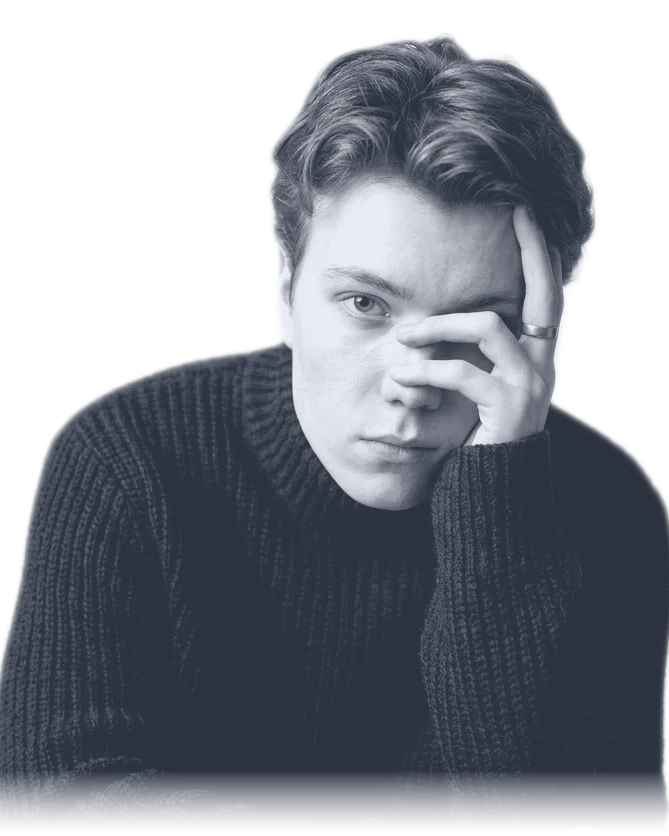
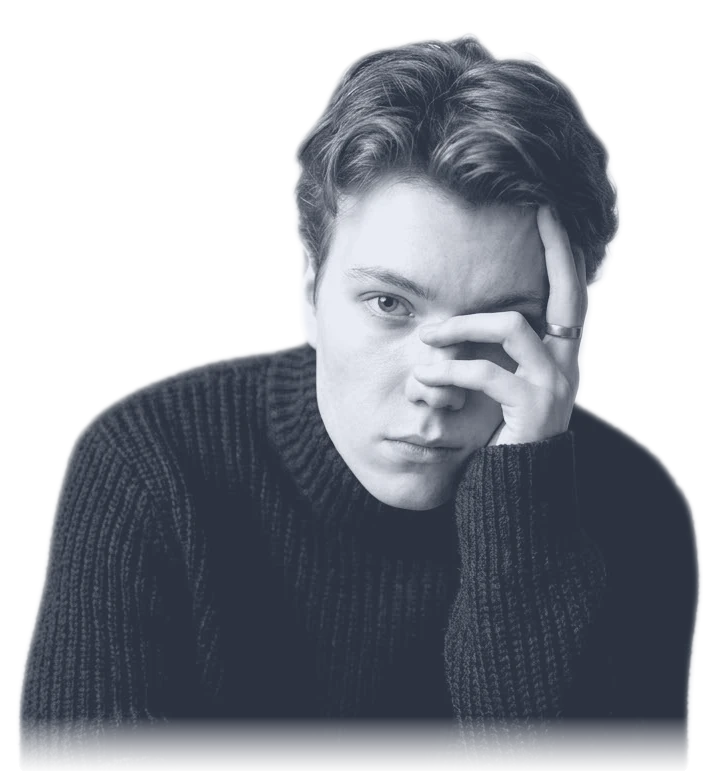
Бейдж круглый, фольга холодная, прозрачность без потерь
Щиток заменён круглым медальоном, форма теперь на border-radius —
контур в clipPath больше не нужен. Фигура вписана целиком: размер
подобран так, чтобы плечи, самое широкое место силуэта, не доставали
до окружности.

Фольга перекрашена в индиго, фиалку и лазурь и получила построчную
штриховку — радуга спорила с палитрой страницы и выглядела игрушечной.
Полосы стали чаще.

Прозрачность портрета жмётся без потерь, а цвет по-прежнему с
потерями. Лоссовая альфа шумила по всему кадру, и на светлой фольге
проступал прямоугольник картинки — на скриншоте владельца он был
хорошо виден.

diff --git a/assets/css/style.css b/assets/css/style.css
@@ -327,14 +327,14 @@ a:hover { color: var(--text); }
 
 .hero__grid {
   display: grid;
-  grid-template-columns: minmax(0, 1fr) 20rem;
+  grid-template-columns: minmax(0, 1fr) 22rem;
   gap: clamp(1.5rem, 4vw, 3.5rem);
   align-items: start;
 }
 
-/* Бейдж прижат к низу строки: так он заканчивается вровень с кнопками, а не
-   висит над пустотой. */
-.hero__grid .badge { align-self: end; }
+/* Круглый бейдж выравнивается по середине строки: прижатый к низу, он
+   оставлял дыру над собой. */
+.hero__grid .badge { align-self: center; }
 
 @media (max-width: 920px) {
   .hero__grid { grid-template-columns: minmax(0, 1fr); }
@@ -431,14 +431,11 @@ a:hover { color: var(--text); }
   background: radial-gradient(52% 52% at 52% 46%, rgba(124, 124, 255, 0.22), transparent 70%);
 }
 
-/* Кант вырубки — три вложенные коробки с одним контуром: тёмный ободок,
-   светлый ободок, содержимое. Рамкой его не сделать, clip-path режет и её. */
-.badge__die,
-.badge__ring,
-.badge__inner { clip-path: url(#badge-shield); }
-
+/* Круглый медальон: тёмный ободок снаружи, светлый кант, содержимое внутри. */
 .badge__die {
-  aspect-ratio: 4 / 5;
+  aspect-ratio: 1;
+  border-radius: 50%;
+  border: 3px solid #05070c;
   padding: 3px;
   background: #05070c;
   filter: drop-shadow(0 18px 30px rgba(0, 0, 0, 0.7));
@@ -452,12 +449,15 @@ a:hover { color: var(--text); }
 .badge__ring {
   height: 100%;
   padding: 3px;
+  border-radius: 50%;
   background: linear-gradient(150deg, #f2f5ff, var(--edge) 45%, #8d95ad);
 }
 
 .badge__inner {
   position: relative;
   height: 100%;
+  border-radius: 50%;
+  overflow: hidden;
 }
 
 /* Пока курсор на бейдже, наклон должен успевать за ним; отпустили — плавный
@@ -492,15 +492,16 @@ a:hover { color: var(--text); }
 
 .badge.is-live .badge__foil { opacity: 0.92; }
 
-/* Фигура вписывается целиком с полями: object-fit: cover срезал плечи, а
-   наклейка с обрезанным по краям человеком выглядит браком печати. */
+/* Фигура целиком внутри круга. Размер подобран так, чтобы плечи — самое
+   широкое место силуэта — не доставали до окружности: на высоте низа
+   фотографии круг ещё шире её самой. */
 .badge__photo {
   position: absolute;
-  inset: 4% 6% 6%;
-  width: 88%;
-  height: 90%;
-  object-fit: contain;
-  object-position: 50% 0;
+  inset-block-start: 10%;
+  inset-inline-start: 50%;
+  transform: translateX(-50%);
+  height: 72%;
+  width: auto;
 }
 
 /* Блик — белое пятно под самым курсором, как отсвет на плёнке. */

diff --git a/index.html b/index.html
@@ -24,25 +24,6 @@
   <a class="skip" href="#main">К содержанию</a>
 
   <canvas id="field" aria-hidden="true"></canvas>
-
-  <!-- Контур вырубки бейджа. Щиток со скруглёнными углами и мягким сходом
-       книзу: polygon() такие кривые не умеет, поэтому форма задана путём.
-       Координаты доли от габарита, поэтому форма тянется за размером. -->
-  <svg width="0" height="0" aria-hidden="true" focusable="false" style="position:absolute">
-    <defs>
-      <clipPath id="badge-shield" clipPathUnits="objectBoundingBox">
-        <path d="M 0.09 0
-                 L 0.91 0
-                 C 0.96 0 1 0.04 1 0.09
-                 L 1 0.46
-                 C 1 0.71 0.84 0.89 0.5 1
-                 C 0.16 0.89 0 0.71 0 0.46
-                 L 0 0.09
-                 C 0 0.04 0.04 0 0.09 0
-                 Z" />
-      </clipPath>
-    </defs>
-  </svg>
   <div id="app"></div>
 
   <noscript>

diff --git a/tools/prep_portrait.py b/tools/prep_portrait.py
@@ -32,8 +32,8 @@ OUT = ROOT / "assets" / "img" / "portrait.webp"
 MODEL = Path.home() / ".u2net" / "u2net_human_seg.onnx"
 
 TARGET_W = 760          # ширина итогового файла, px (показывается вдвое меньше)
-ASPECT = 0.8            # ширина к высоте: портретный кадр 4:5
-HEAD_RATIO = 2.2        # высота кадра в высотах головы
+ASPECT = 0.92           # ширина к высоте: кадр почти квадратный — под круг
+HEAD_RATIO = 2.05       # высота кадра в высотах головы
 SHADOW = (0x1b, 0x22, 0x30)   # куда уходят тени — синевато-тёмный из палитры
 HIGHLIGHT = (0xe9, 0xec, 0xf4)  # куда уходят света
 # Растворяется только низ, и совсем немного: там силуэт обрезан краем кадра.
@@ -161,10 +161,19 @@ def main() -> int:
         rows = max(1, int(height * TOP_FADE))
         mask[:rows, :] *= (np.linspace(0.0, 1.0, rows) ** 1.4)[:, None]
 
-    rgba = np.dstack([duotone(gray), (mask * 255).astype(np.uint8)])
+    alpha = (mask * 255).astype(np.uint8)
+    # Почти прозрачное дожимаем до нуля: лоссовое сжатие размазывает такую
+    # альфу, и на светлом фоне проступает прямоугольник картинки.
+    alpha[alpha < 8] = 0
+
+    rgba = np.dstack([duotone(gray), alpha])
 
     OUT.parent.mkdir(parents=True, exist_ok=True)
-    Image.fromarray(rgba, mode="RGBA").save(OUT, "WEBP", quality=88, method=6)
+    # Цвет жмём с потерями, прозрачность — нет. Иначе на светлом фоне
+    # проступает прямоугольник картинки: лоссовая альфа шумит по всему кадру.
+    Image.fromarray(rgba, mode="RGBA").save(
+        OUT, "WEBP", quality=90, alpha_quality=100, method=6,
+    )
 
     sys.stdout.reconfigure(encoding="utf-8")
     print(f"{OUT.relative_to(ROOT)} - {target_w}x{height}, {OUT.stat().st_size / 1024:.0f} KB")

diff --git a/tools/make_foil.py b/tools/make_foil.py
@@ -28,19 +28,21 @@ OUT = ROOT / "assets" / "img" / "foil.webp"
 
 WIDTH = 560
 HEIGHT = 700
-BANDS = 7.0             # сколько цветных полос укладывается по диагонали
-WARP = 2.6              # насколько сильно шум коробит полосы
+BANDS = 9.5             # сколько цветных полос укладывается по диагонали
+WARP = 2.2              # насколько сильно шум коробит полосы
+SCANLINE = 0.16         # глубина построчной штриховки
 SEED = 11
 
-# Радужная шкала фольги: пурпур, фиалка, синь, бирюза, мята, золото и обратно.
+# Холодная шкала: индиго, фиалка, электрик, лазурь, стальной — и обратно.
+# Радуга спорила с палитрой страницы и выглядела игрушечной.
 RAMP = [
-    (255, 0, 140),
-    (150, 60, 255),
-    (60, 140, 255),
-    (0, 225, 220),
-    (90, 255, 150),
-    (255, 220, 90),
-    (255, 0, 140),
+    (58, 42, 190),
+    (124, 70, 255),
+    (58, 110, 255),
+    (34, 200, 245),
+    (150, 190, 255),
+    (92, 60, 220),
+    (58, 42, 190),
 ]
 
 
@@ -83,7 +85,11 @@ def main() -> int:
     # Блик на сгибе — узкая полоска в середине полосы, и она белая, а не
     # цветная: у металла отсвет всегда уходит в белый.
     highlight = np.exp(-((fraction - 0.5) ** 2) / (2 * 0.05 ** 2))
-    out = colour * (0.5 + 0.35 * highlight)[..., None] + 235.0 * highlight[..., None]
+    out = colour * (0.52 + 0.32 * highlight)[..., None] + 225.0 * highlight[..., None]
+
+    # Построчная штриховка: тонкая техническая развёртка поверх металла.
+    scan = 1.0 - SCANLINE * (np.mod(rows, 3.0) < 1.0)
+    out *= scan[..., None]
 
     out = np.clip(out, 0, 255).astype(np.uint8)
 

diff --git a/README.md b/README.md
@@ -15,12 +15,12 @@
   сегодняшнего: видно и соотношение сроков, и промежутки между работами. Клик по
   отрезку прокручивает к нужной карточке.
 * **Голографический бейдж вместо фотографии.** Фигура вырезана нейросетью и
-  лежит на фольге, вырубленной по щитку со скруглёнными углами. Под курсором
+  лежит на фольге внутри круглого медальона. Под курсором
   наклейка наклоняется, фольга переливается, а по плёнке ходит блик — как
   наклейки в игровых инвентарях. Текстура фольги не из градиентов, а
   сгенерирована: `tools/make_foil.py` считает мятые складки с бликами на
-  изломах, дальше она просто ездит фоном. Кант вырубки — три вложенные коробки
-  с одним контуром; рамкой его не сделать, `clip-path` режет и её.
+  изломах, дальше она просто ездит фоном. Гамма холодная, сине-фиолетовая:
+  радуга спорила с палитрой страницы.
 * **Поле символов вместо фона.** Всю страницу подстилает сетка моноширинных
   знаков — синтаксис кода вперемешку с юридическими символами (`{ } < > § № ¶`).
   Сама по себе она едва различима; курсор освещает вокруг себя круг, где символы
@@ -126,8 +126,12 @@ python tools/make_foil.py
 об этом скажет и ничего не сделает.
 
 Второй скрипт рисует `assets/img/foil.webp` — текстуру голографической фольги
-для бейджа. Форму щитка задаёт `clipPath` в начале `index.html`, цвета фольги —
-список `RAMP` в скрипте.
+для бейджа. Цвета задаёт список `RAMP`, частоту складок — `BANDS`, глубину
+построчной штриховки — `SCANLINE`.
+
+Прозрачность портрета жмётся без потерь (`alpha_quality=100`), цвет — с
+потерями. Иначе лоссовая альфа шумит по всему кадру и на светлой фольге
+проступает прямоугольник картинки.
 
 ## Один файл
 
